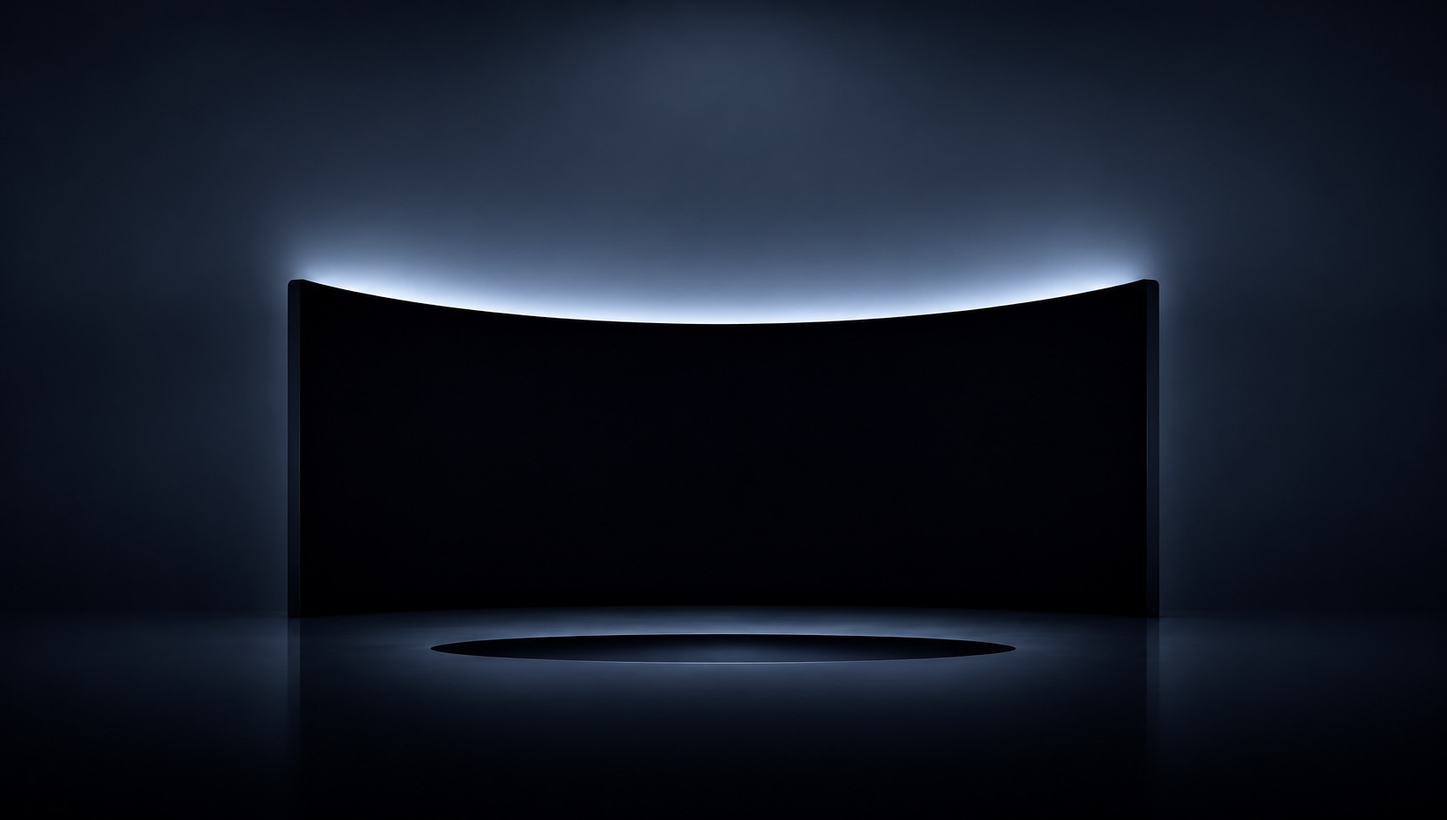
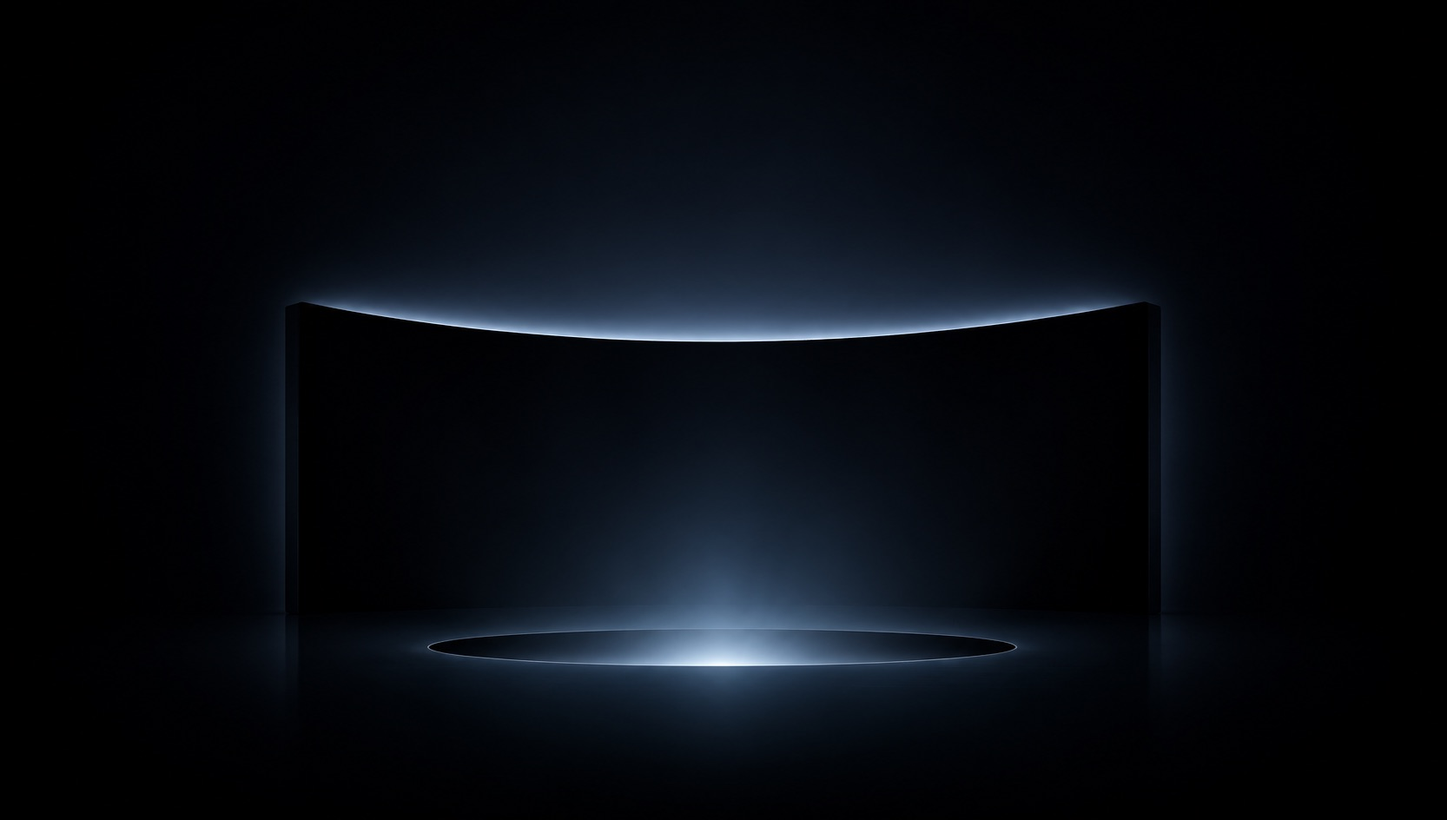
House of Jubilation: image Atelier et lumière animée du puits

diff --git a/app/site/jubilation.ts b/app/site/jubilation.ts
@@ -1,3 +1,3 @@
-export const HOJ_HTML = "<section class=\"hj\" aria-label=\"House of Jubilation\" aria-roledescription=\"carousel\">\n  <h1 class=\"hj__sr\">House of Jubilation</h1>\n  <script type=\"application/json\" class=\"hj-data\">{\"atelier-of-nights\": [{\"title\": \"Title to come\", \"text\": \"Description to come.\", \"cta\": \"Read more\", \"href\": \"\", \"img\": \"\", \"kicker\": \"The Atelier of Nights\"}, {\"title\": \"Title to come\", \"text\": \"Description to come.\", \"cta\": \"Read more\", \"href\": \"\", \"img\": \"\", \"kicker\": \"The Atelier of Nights\"}, {\"title\": \"Title to come\", \"text\": \"Description to come.\", \"cta\": \"Read more\", \"href\": \"\", \"img\": \"\", \"kicker\": \"The Atelier of Nights\"}], \"vault-of-rituals\": [{\"title\": \"Title to come\", \"text\": \"Description to come.\", \"cta\": \"Read more\", \"href\": \"\", \"img\": \"\", \"kicker\": \"The Vault of Rituals\"}, {\"title\": \"Title to come\", \"text\": \"Description to come.\", \"cta\": \"Read more\", \"href\": \"\", \"img\": \"\", \"kicker\": \"The Vault of Rituals\"}, {\"title\": \"Title to come\", \"text\": \"Description to come.\", \"cta\": \"Read more\", \"href\": \"\", \"img\": \"\", \"kicker\": \"The Vault of Rituals\"}], \"library-of-seasons\": [{\"title\": \"Title to come\", \"text\": \"Description to come.\", \"cta\": \"Read more\", \"href\": \"\", \"img\": \"\", \"kicker\": \"The Library of Seasons\"}, {\"title\": \"Title to come\", \"text\": \"Description to come.\", \"cta\": \"Read more\", \"href\": \"\", \"img\": \"\", \"kicker\": \"The Library of Seasons\"}, {\"title\": \"Title to come\", \"text\": \"Description to come.\", \"cta\": \"Read more\", \"href\": \"\", \"img\": \"\", \"kicker\": \"The Library of Seasons\"}], \"salon-of-jubilation\": [{\"title\": \"Title to come\", \"text\": \"Description to come.\", \"cta\": \"Read more\", \"href\": \"\", \"img\": \"\", \"kicker\": \"The Salon of Jubilation\"}, {\"title\": \"Title to come\", \"text\": \"Description to come.\", \"cta\": \"Read more\", \"href\": \"\", \"img\": \"\", \"kicker\": \"The Salon of Jubilation\"}, {\"title\": \"Title to come\", \"text\": \"Description to come.\", \"cta\": \"Read more\", \"href\": \"\", \"img\": \"\", \"kicker\": \"The Salon of Jubilation\"}]}</script>\n  <div class=\"hj__rooms\"><div class=\"hj-room\" id=\"atelier-of-nights\" data-a=\"The Atelier\" data-b=\"of Nights\" data-fx=\"50\" role=\"group\" aria-roledescription=\"room\" aria-label=\"1 of 4: The Atelier of Nights\" style=\"--c1:#2b1a12;--c2:#b97a4c;--ac:#f1c79c\"><div class=\"hj-room__scene\"><div class=\"hj-room__enter\"><div class=\"hj-room__zoom\"><div class=\"hj-layer\" data-depth=\"0.1\"><img src=\"/hoj/atelier.jpg\" alt=\"\" decoding=\"async\" fetchpriority=\"high\"></div><button type=\"button\" class=\"hj-dot\" data-h=\"0\" style=\"left:31%;top:46%\" aria-label=\"Title to come\"><span aria-hidden=\"true\"></span><em>Title to come</em></button><button type=\"button\" class=\"hj-dot\" data-h=\"1\" style=\"left:50%;top:28%\" aria-label=\"Title to come\"><span aria-hidden=\"true\"></span><em>Title to come</em></button><button type=\"button\" class=\"hj-dot\" data-h=\"2\" style=\"left:68%;top:60%\" aria-label=\"Title to come\"><span aria-hidden=\"true\"></span><em>Title to come</em></button></div></div></div></div><div class=\"hj-room\" id=\"vault-of-rituals\" data-a=\"The Vault\" data-b=\"of Rituals\" data-fx=\"50\" role=\"group\" aria-roledescription=\"room\" aria-label=\"2 of 4: The Vault of Rituals\" style=\"--c1:#10161e;--c2:#6f8ba3;--ac:#cfe0ee\"><div class=\"hj-room__scene\"><div class=\"hj-room__enter\"><div class=\"hj-room__zoom\"><div class=\"hj-layer\" data-depth=\"0.08\"><div class=\"hj-ph hj-ph--back\"><i class=\"hj-ph__arch\"></i><i class=\"hj-ph__col hj-ph__col--l\"></i><i class=\"hj-ph__col hj-ph__col--r\"></i><i class=\"hj-ph__floor\"></i></div></div><div class=\"hj-layer\" data-depth=\"0.22\"><div class=\"hj-ph hj-ph--front\"><i class=\"hj-ph__pil hj-ph__pil--l\"></i><i class=\"hj-ph__pil hj-ph__pil--r\"></i><i class=\"hj-ph__plinth\"></i></div></div><button type=\"button\" class=\"hj-dot\" data-h=\"0\" style=\"left:38%;top:40%\" aria-label=\"Title to come\"><span aria-hidden=\"true\"></span><em>Title to come</em></button><button type=\"button\" class=\"hj-dot\" data-h=\"1\" style=\"left:57%;top:52%\" aria-label=\"Title to come\"><span aria-hidden=\"true\"></span><em>Title to come</em></button><button type=\"button\" class=\"hj-dot\" data-h=\"2\" style=\"left:72%;top:34%\" aria-label=\"Title to come\"><span aria-hidden=\"true\"></span><em>Title to come</em></button></div></div></div></div><div class=\"hj-room\" id=\"library-of-seasons\" data-a=\"The Library\" data-b=\"of Seasons\" data-fx=\"50\" role=\"group\" aria-roledescription=\"room\" aria-label=\"3 of 4: The Library of Seasons\" style=\"--c1:#07130e;--c2:#25573f;--ac:#b9e2c8\"><div class=\"hj-room__scene\"><div class=\"hj-room__enter\"><div class=\"hj-room__zoom\"><div class=\"hj-layer\" data-depth=\"0.08\"><div class=\"hj-ph hj-ph--back\"><i class=\"hj-ph__arch\"></i><i class=\"hj-ph__col hj-ph__col--l\"></i><i class=\"hj-ph__col hj-ph__col--r\"></i><i class=\"hj-ph__floor\"></i></div></div><div class=\"hj-layer\" data-depth=\"0.22\"><div class=\"hj-ph hj-ph--front\"><i class=\"hj-ph__pil hj-ph__pil--l\"></i><i class=\"hj-ph__pil hj-ph__pil--r\"></i><i class=\"hj-ph__plinth\"></i></div></div><button type=\"button\" class=\"hj-dot\" data-h=\"0\" style=\"left:28%;top:56%\" aria-label=\"Title to come\"><span aria-hidden=\"true\"></span><em>Title to come</em></button><button type=\"button\" class=\"hj-dot\" data-h=\"1\" style=\"left:49%;top:36%\" aria-label=\"Title to come\"><span aria-hidden=\"true\"></span><em>Title to come</em></button><button type=\"button\" class=\"hj-dot\" data-h=\"2\" style=\"left:64%;top:62%\" aria-label=\"Title to come\"><span aria-hidden=\"true\"></span><em>Title to come</em></button></div></div></div></div><div class=\"hj-room\" id=\"salon-of-jubilation\" data-a=\"The Salon\" data-b=\"of Jubilation\" data-fx=\"50\" role=\"group\" aria-roledescription=\"room\" aria-label=\"4 of 4: The Salon of Jubilation\" style=\"--c1:#230b1c;--c2:#b8508f;--ac:#ffc6e6\"><div class=\"hj-room__scene\"><div class=\"hj-room__enter\"><div class=\"hj-room__zoom\"><div class=\"hj-layer\" data-depth=\"0.08\"><div class=\"hj-ph hj-ph--back\"><i class=\"hj-ph__arch\"></i><i class=\"hj-ph__col hj-ph__col--l\"></i><i class=\"hj-ph__col hj-ph__col--r\"></i><i class=\"hj-ph__floor\"></i></div></div><div class=\"hj-layer\" data-depth=\"0.22\"><div class=\"hj-ph hj-ph--front\"><i class=\"hj-ph__pil hj-ph__pil--l\"></i><i class=\"hj-ph__pil hj-ph__pil--r\"></i><i class=\"hj-ph__plinth\"></i></div></div><button type=\"button\" class=\"hj-dot\" data-h=\"0\" style=\"left:35%;top:30%\" aria-label=\"Title to come\"><span aria-hidden=\"true\"></span><em>Title to come</em></button><button type=\"button\" class=\"hj-dot\" data-h=\"1\" style=\"left:52%;top:58%\" aria-label=\"Title to come\"><span aria-hidden=\"true\"></span><em>Title to come</em></button><button type=\"button\" class=\"hj-dot\" data-h=\"2\" style=\"left:70%;top:44%\" aria-label=\"Title to come\"><span aria-hidden=\"true\"></span><em>Title to come</em></button></div></div></div></div></div>\n  <div class=\"hj__lvl\" aria-hidden=\"true\"><svg viewBox=\"0 0 40 50\" fill=\"none\" stroke=\"currentColor\" stroke-width=\"1\"><path d=\"M20 2L38 11L20 20L2 11Z\" transform=\"translate(0,0)\"/><path d=\"M20 2L38 11L20 20L2 11Z\" transform=\"translate(0,10)\"/><path d=\"M20 2L38 11L20 20L2 11Z\" transform=\"translate(0,20)\"/><path d=\"M20 2L38 11L20 20L2 11Z\" transform=\"translate(0,30)\"/></svg><span class=\"hj__lvlname\"></span></div>\n  <div class=\"hj__ui\">\n    <div class=\"hj__count\"><span class=\"hj__num\">01 / 04</span><span class=\"hj__prog\" aria-hidden=\"true\"><i></i></span></div>\n    <div class=\"hj__nav\">\n      <button type=\"button\" class=\"hj__arrow hj__prev\" aria-label=\"Previous room\"><svg viewBox=\"0 0 24 24\" fill=\"none\" stroke=\"currentColor\" stroke-width=\"1.2\" aria-hidden=\"true\"><path d=\"M6 14.5l6-6 6 6\"/></svg></button>\n      <h2 class=\"hj__title\" aria-live=\"polite\"></h2>\n      <button type=\"button\" class=\"hj__arrow hj__next\" aria-label=\"Next room\"><svg viewBox=\"0 0 24 24\" fill=\"none\" stroke=\"currentColor\" stroke-width=\"1.2\" aria-hidden=\"true\"><path d=\"M6 9.5l6 6 6-6\"/></svg></button>\n    </div>\n    <button type=\"button\" class=\"hj__surprise\"><svg viewBox=\"0 0 24 24\" fill=\"none\" stroke=\"currentColor\" stroke-width=\"1.2\" aria-hidden=\"true\"><path d=\"M3 7h3.5c2.2 0 3.6 1 4.8 2.8l2.4 4.4c1.2 1.8 2.6 2.8 4.8 2.8H21M3 17h3.5c1.6 0 2.8-.5 3.8-1.5M14 8.5c1-1 2.2-1.5 3.8-1.5H21M18.5 4.5L21 7l-2.5 2.5M18.5 14.5L21 17l-2.5 2.5\"/></svg><span>Surprise me</span></button>\n    <p class=\"hj__hint\" aria-hidden=\"true\">Drag to explore</p>\n  </div>\n  <div class=\"hj-pveil\" hidden></div>\n  <aside class=\"hj-panel\" role=\"dialog\" aria-modal=\"true\" aria-label=\"Details\" hidden>\n    <button type=\"button\" class=\"hj-panel__close\" aria-label=\"Close\"><svg viewBox=\"0 0 24 24\" fill=\"none\" stroke=\"currentColor\" stroke-width=\"1.2\" aria-hidden=\"true\"><path d=\"M5 5l14 14M19 5L5 19\"/></svg></button>\n    <div class=\"hj-panel__media\"></div>\n    <div class=\"hj-panel__body\">\n      <p class=\"hj-panel__kicker\"></p>\n      <h3 class=\"hj-panel__title\"></h3>\n      <p class=\"hj-panel__text\"></p>\n      <a class=\"hj-panel__cta\" href=\"#\" hidden><span>Read more</span><i aria-hidden=\"true\"></i></a>\n    </div>\n  </aside>\n</section>"
+export const HOJ_HTML = "<section class=\"hj\" aria-label=\"House of Jubilation\" aria-roledescription=\"carousel\">\n  <h1 class=\"hj__sr\">House of Jubilation</h1>\n  <script type=\"application/json\" class=\"hj-data\">{\"atelier-of-nights\": [{\"title\": \"Title to come\", \"text\": \"Description to come.\", \"cta\": \"Read more\", \"href\": \"\", \"img\": \"\", \"kicker\": \"The Atelier of Nights\"}, {\"title\": \"Title to come\", \"text\": \"Description to come.\", \"cta\": \"Read more\", \"href\": \"\", \"img\": \"\", \"kicker\": \"The Atelier of Nights\"}, {\"title\": \"Title to come\", \"text\": \"Description to come.\", \"cta\": \"Read more\", \"href\": \"\", \"img\": \"\", \"kicker\": \"The Atelier of Nights\"}], \"vault-of-rituals\": [{\"title\": \"Title to come\", \"text\": \"Description to come.\", \"cta\": \"Read more\", \"href\": \"\", \"img\": \"\", \"kicker\": \"The Vault of Rituals\"}, {\"title\": \"Title to come\", \"text\": \"Description to come.\", \"cta\": \"Read more\", \"href\": \"\", \"img\": \"\", \"kicker\": \"The Vault of Rituals\"}, {\"title\": \"Title to come\", \"text\": \"Description to come.\", \"cta\": \"Read more\", \"href\": \"\", \"img\": \"\", \"kicker\": \"The Vault of Rituals\"}], \"library-of-seasons\": [{\"title\": \"Title to come\", \"text\": \"Description to come.\", \"cta\": \"Read more\", \"href\": \"\", \"img\": \"\", \"kicker\": \"The Library of Seasons\"}, {\"title\": \"Title to come\", \"text\": \"Description to come.\", \"cta\": \"Read more\", \"href\": \"\", \"img\": \"\", \"kicker\": \"The Library of Seasons\"}, {\"title\": \"Title to come\", \"text\": \"Description to come.\", \"cta\": \"Read more\", \"href\": \"\", \"img\": \"\", \"kicker\": \"The Library of Seasons\"}], \"salon-of-jubilation\": [{\"title\": \"Title to come\", \"text\": \"Description to come.\", \"cta\": \"Read more\", \"href\": \"\", \"img\": \"\", \"kicker\": \"The Salon of Jubilation\"}, {\"title\": \"Title to come\", \"text\": \"Description to come.\", \"cta\": \"Read more\", \"href\": \"\", \"img\": \"\", \"kicker\": \"The Salon of Jubilation\"}, {\"title\": \"Title to come\", \"text\": \"Description to come.\", \"cta\": \"Read more\", \"href\": \"\", \"img\": \"\", \"kicker\": \"The Salon of Jubilation\"}]}</script>\n  <div class=\"hj__rooms\"><div class=\"hj-room\" id=\"atelier-of-nights\" data-a=\"The Atelier\" data-b=\"of Nights\" data-fx=\"50\" role=\"group\" aria-roledescription=\"room\" aria-label=\"1 of 4: The Atelier of Nights\" style=\"--c1:#2b1a12;--c2:#b97a4c;--ac:#f1c79c\"><div class=\"hj-room__scene\"><div class=\"hj-room__enter\"><div class=\"hj-room__zoom\"><div class=\"hj-layer\" data-depth=\"0.1\"><img src=\"/hoj/atelier.jpg\" alt=\"\" decoding=\"async\" fetchpriority=\"high\"><div class=\"hj-fx\" aria-hidden=\"true\"><i class=\"hj-glow\"></i><i class=\"hj-shaft\"></i></div></div><button type=\"button\" class=\"hj-dot\" data-h=\"0\" style=\"left:31%;top:46%\" aria-label=\"Title to come\"><span aria-hidden=\"true\"></span><em>Title to come</em></button><button type=\"button\" class=\"hj-dot\" data-h=\"1\" style=\"left:50%;top:28%\" aria-label=\"Title to come\"><span aria-hidden=\"true\"></span><em>Title to come</em></button><button type=\"button\" class=\"hj-dot\" data-h=\"2\" style=\"left:68%;top:60%\" aria-label=\"Title to come\"><span aria-hidden=\"true\"></span><em>Title to come</em></button></div></div></div></div><div class=\"hj-room\" id=\"vault-of-rituals\" data-a=\"The Vault\" data-b=\"of Rituals\" data-fx=\"50\" role=\"group\" aria-roledescription=\"room\" aria-label=\"2 of 4: The Vault of Rituals\" style=\"--c1:#10161e;--c2:#6f8ba3;--ac:#cfe0ee\"><div class=\"hj-room__scene\"><div class=\"hj-room__enter\"><div class=\"hj-room__zoom\"><div class=\"hj-layer\" data-depth=\"0.08\"><div class=\"hj-ph hj-ph--back\"><i class=\"hj-ph__arch\"></i><i class=\"hj-ph__col hj-ph__col--l\"></i><i class=\"hj-ph__col hj-ph__col--r\"></i><i class=\"hj-ph__floor\"></i></div></div><div class=\"hj-layer\" data-depth=\"0.22\"><div class=\"hj-ph hj-ph--front\"><i class=\"hj-ph__pil hj-ph__pil--l\"></i><i class=\"hj-ph__pil hj-ph__pil--r\"></i><i class=\"hj-ph__plinth\"></i></div></div><button type=\"button\" class=\"hj-dot\" data-h=\"0\" style=\"left:38%;top:40%\" aria-label=\"Title to come\"><span aria-hidden=\"true\"></span><em>Title to come</em></button><button type=\"button\" class=\"hj-dot\" data-h=\"1\" style=\"left:57%;top:52%\" aria-label=\"Title to come\"><span aria-hidden=\"true\"></span><em>Title to come</em></button><button type=\"button\" class=\"hj-dot\" data-h=\"2\" style=\"left:72%;top:34%\" aria-label=\"Title to come\"><span aria-hidden=\"true\"></span><em>Title to come</em></button></div></div></div></div><div class=\"hj-room\" id=\"library-of-seasons\" data-a=\"The Library\" data-b=\"of Seasons\" data-fx=\"50\" role=\"group\" aria-roledescription=\"room\" aria-label=\"3 of 4: The Library of Seasons\" style=\"--c1:#07130e;--c2:#25573f;--ac:#b9e2c8\"><div class=\"hj-room__scene\"><div class=\"hj-room__enter\"><div class=\"hj-room__zoom\"><div class=\"hj-layer\" data-depth=\"0.08\"><div class=\"hj-ph hj-ph--back\"><i class=\"hj-ph__arch\"></i><i class=\"hj-ph__col hj-ph__col--l\"></i><i class=\"hj-ph__col hj-ph__col--r\"></i><i class=\"hj-ph__floor\"></i></div></div><div class=\"hj-layer\" data-depth=\"0.22\"><div class=\"hj-ph hj-ph--front\"><i class=\"hj-ph__pil hj-ph__pil--l\"></i><i class=\"hj-ph__pil hj-ph__pil--r\"></i><i class=\"hj-ph__plinth\"></i></div></div><button type=\"button\" class=\"hj-dot\" data-h=\"0\" style=\"left:28%;top:56%\" aria-label=\"Title to come\"><span aria-hidden=\"true\"></span><em>Title to come</em></button><button type=\"button\" class=\"hj-dot\" data-h=\"1\" style=\"left:49%;top:36%\" aria-label=\"Title to come\"><span aria-hidden=\"true\"></span><em>Title to come</em></button><button type=\"button\" class=\"hj-dot\" data-h=\"2\" style=\"left:64%;top:62%\" aria-label=\"Title to come\"><span aria-hidden=\"true\"></span><em>Title to come</em></button></div></div></div></div><div class=\"hj-room\" id=\"salon-of-jubilation\" data-a=\"The Salon\" data-b=\"of Jubilation\" data-fx=\"50\" role=\"group\" aria-roledescription=\"room\" aria-label=\"4 of 4: The Salon of Jubilation\" style=\"--c1:#230b1c;--c2:#b8508f;--ac:#ffc6e6\"><div class=\"hj-room__scene\"><div class=\"hj-room__enter\"><div class=\"hj-room__zoom\"><div class=\"hj-layer\" data-depth=\"0.08\"><div class=\"hj-ph hj-ph--back\"><i class=\"hj-ph__arch\"></i><i class=\"hj-ph__col hj-ph__col--l\"></i><i class=\"hj-ph__col hj-ph__col--r\"></i><i class=\"hj-ph__floor\"></i></div></div><div class=\"hj-layer\" data-depth=\"0.22\"><div class=\"hj-ph hj-ph--front\"><i class=\"hj-ph__pil hj-ph__pil--l\"></i><i class=\"hj-ph__pil hj-ph__pil--r\"></i><i class=\"hj-ph__plinth\"></i></div></div><button type=\"button\" class=\"hj-dot\" data-h=\"0\" style=\"left:35%;top:30%\" aria-label=\"Title to come\"><span aria-hidden=\"true\"></span><em>Title to come</em></button><button type=\"button\" class=\"hj-dot\" data-h=\"1\" style=\"left:52%;top:58%\" aria-label=\"Title to come\"><span aria-hidden=\"true\"></span><em>Title to come</em></button><button type=\"button\" class=\"hj-dot\" data-h=\"2\" style=\"left:70%;top:44%\" aria-label=\"Title to come\"><span aria-hidden=\"true\"></span><em>Title to come</em></button></div></div></div></div></div>\n  <div class=\"hj__lvl\" aria-hidden=\"true\"><svg viewBox=\"0 0 40 50\" fill=\"none\" stroke=\"currentColor\" stroke-width=\"1\"><path d=\"M20 2L38 11L20 20L2 11Z\" transform=\"translate(0,0)\"/><path d=\"M20 2L38 11L20 20L2 11Z\" transform=\"translate(0,10)\"/><path d=\"M20 2L38 11L20 20L2 11Z\" transform=\"translate(0,20)\"/><path d=\"M20 2L38 11L20 20L2 11Z\" transform=\"translate(0,30)\"/></svg><span class=\"hj__lvlname\"></span></div>\n  <div class=\"hj__ui\">\n    <div class=\"hj__count\"><span class=\"hj__num\">01 / 04</span><span class=\"hj__prog\" aria-hidden=\"true\"><i></i></span></div>\n    <div class=\"hj__nav\">\n      <button type=\"button\" class=\"hj__arrow hj__prev\" aria-label=\"Previous room\"><svg viewBox=\"0 0 24 24\" fill=\"none\" stroke=\"currentColor\" stroke-width=\"1.2\" aria-hidden=\"true\"><path d=\"M6 14.5l6-6 6 6\"/></svg></button>\n      <h2 class=\"hj__title\" aria-live=\"polite\"></h2>\n      <button type=\"button\" class=\"hj__arrow hj__next\" aria-label=\"Next room\"><svg viewBox=\"0 0 24 24\" fill=\"none\" stroke=\"currentColor\" stroke-width=\"1.2\" aria-hidden=\"true\"><path d=\"M6 9.5l6 6 6-6\"/></svg></button>\n    </div>\n    <button type=\"button\" class=\"hj__surprise\"><svg viewBox=\"0 0 24 24\" fill=\"none\" stroke=\"currentColor\" stroke-width=\"1.2\" aria-hidden=\"true\"><path d=\"M3 7h3.5c2.2 0 3.6 1 4.8 2.8l2.4 4.4c1.2 1.8 2.6 2.8 4.8 2.8H21M3 17h3.5c1.6 0 2.8-.5 3.8-1.5M14 8.5c1-1 2.2-1.5 3.8-1.5H21M18.5 4.5L21 7l-2.5 2.5M18.5 14.5L21 17l-2.5 2.5\"/></svg><span>Surprise me</span></button>\n    <p class=\"hj__hint\" aria-hidden=\"true\">Drag to explore</p>\n  </div>\n  <div class=\"hj-pveil\" hidden></div>\n  <aside class=\"hj-panel\" role=\"dialog\" aria-modal=\"true\" aria-label=\"Details\" hidden>\n    <button type=\"button\" class=\"hj-panel__close\" aria-label=\"Close\"><svg viewBox=\"0 0 24 24\" fill=\"none\" stroke=\"currentColor\" stroke-width=\"1.2\" aria-hidden=\"true\"><path d=\"M5 5l14 14M19 5L5 19\"/></svg></button>\n    <div class=\"hj-panel__media\"></div>\n    <div class=\"hj-panel__body\">\n      <p class=\"hj-panel__kicker\"></p>\n      <h3 class=\"hj-panel__title\"></h3>\n      <p class=\"hj-panel__text\"></p>\n      <a class=\"hj-panel__cta\" href=\"#\" hidden><span>Read more</span><i aria-hidden=\"true\"></i></a>\n    </div>\n  </aside>\n</section>"
 
 export const HOJ_APP = "(function(){\n  var hj=document.querySelector('.hj');if(!hj||hj.getAttribute('data-ready'))return;hj.setAttribute('data-ready','1');\n  if(window.__hjAbort)window.__hjAbort.abort();\n  var ac=new AbortController(),sig={signal:ac.signal};window.__hjAbort=ac;\n  var root=document.documentElement;root.classList.add('ms-hoj');\n  var D=JSON.parse(hj.querySelector('.hj-data').textContent);\n  var rooms=[].slice.call(hj.querySelectorAll('.hj-room')),N=rooms.length,cur=0,busy=0;\n  var lvlName=hj.querySelector('.hj__lvlname'),lvlP=[].slice.call(hj.querySelectorAll('.hj__lvl path')),pv=hj.querySelector('.hj__prev'),nx=hj.querySelector('.hj__next'),title=hj.querySelector('.hj__title'),num=hj.querySelector('.hj__num'),bar=hj.querySelector('.hj__prog i');\n  var panel=hj.querySelector('.hj-panel'),pveil=hj.querySelector('.hj-pveil'),lastDot=null;\n  var RM=window.matchMedia('(prefers-reduced-motion: reduce)').matches;\n  var FINE=window.matchMedia('(hover: hover) and (pointer: fine)').matches;\n  function alive(){if(!hj.isConnected){ac.abort();root.classList.remove('ms-hoj','hj-panel-open');return false}return true}\n  function pad(n){return (n<10?'0':'')+n}\n  function load(r){[].forEach.call(r.querySelectorAll('[data-src]'),function(m){m.src=m.getAttribute('data-src');m.removeAttribute('data-src');if(m.tagName==='VIDEO'){m.load();}})}\n  function play(r,on){[].forEach.call(r.querySelectorAll('video'),function(v){if(on){var p=v.play();if(p&&p.catch)p.catch(function(){})}else v.pause()})}\n  function fit(){\n    var vw=hj.clientWidth,vh=hj.clientHeight,w=Math.max(vw,vh*16/9);\n    rooms.forEach(function(r){var s=r.querySelector('.hj-room__scene'),max=(w-vw)/2,fx=+(r.getAttribute('data-fx')||50);\n      var px=r.__px;if(px==null)px=(50-fx)/100*w;px=Math.max(-max,Math.min(max,px));r.__px=px;r.__max=max;s.style.setProperty('--px',px+'px')});\n  }\n  function label(){\n    var r=rooms[cur];title.innerHTML='<span>'+r.getAttribute('data-a')+'</span><span class=\"hj-it\">'+r.getAttribute('data-b')+'</span>';\n    num.textContent=pad(cur+1)+' / '+pad(N);lvlName.innerHTML=title.innerHTML;lvlP.forEach(function(q,k){q.classList.toggle('is-on',k===cur)});pv.disabled=cur<=0;nx.disabled=cur>=N-1;bar.style.transform='scaleX('+((cur+1)/N)+')';\n  }\n  function go(i,instant){\n    if(i<0||i>=N||i===cur&&!instant)return;\n    closePanel(true);\n    var prev=rooms[cur];cur=i;var r=rooms[cur];\n    load(r);if(rooms[cur+1])load(rooms[cur+1]);if(rooms[cur-1])load(rooms[cur-1]);\n    hj.classList.toggle('hj--instant',!!instant);\n    rooms.forEach(function(x,k){x.style.transform='translate3d(0,'+((k-cur)*100)+'%,0)'});\n    title.classList.add('is-out');\n    setTimeout(function(){label();title.classList.remove('is-out')},instant?0:420);\n    rooms.forEach(function(x,k){var on=k===cur;x.classList.toggle('is-on',on);x.setAttribute('aria-hidden',on?'false':'true');x.inert=!on;if(x!==prev||instant)play(x,on)});\n    if(prev&&prev!==r)setTimeout(function(){play(prev,false)},1200);\n    busy=Date.now()+(instant?0:1250);\n    try{history.replaceState(null,'','#'+r.id)}catch(e){}\n    if(instant)requestAnimationFrame(function(){hj.classList.remove('hj--instant')});\n  }\n  pv.addEventListener('click',function(){if(cur>0&&Date.now()>busy)go(cur-1)});\n  nx.addEventListener('click',function(){if(cur<N-1&&Date.now()>busy)go(cur+1)});\n  hj.querySelector('.hj__surprise').addEventListener('click',function(){if(N<2)return;var k;do{k=Math.floor(Math.random()*N)}while(k===cur);go(k)});\n  function atTop(){return hj.getBoundingClientRect().top>-4}\n  var acc=0,lastW=0,needQuiet=false;\n  window.addEventListener('wheel',function(e){\n    if(!alive()||!atTop()||root.classList.contains('hj-panel-open')||root.classList.contains('ms-menu-open'))return;\n    if(e.ctrlKey)return;\n    if(Math.abs(e.deltaX)>Math.abs(e.deltaY))return;var d=e.deltaY,dir=d>0?1:-1,now=Date.now();\n    if(dir>0&&cur===N-1&&now>busy)return;\n    if(dir<0&&cur===0&&now>busy)return;\n    e.preventDefault();\n    if(now-lastW>220)needQuiet=false;lastW=now;\n    if(now<busy){needQuiet=true;acc=0;return}\n    if(needQuiet)return;\n    acc+=d;if(Math.abs(acc)<40)return;acc=0;go(cur+dir);\n  },{passive:false,signal:ac.signal});\n  document.addEventListener('keydown',function(e){\n    if(!alive())return;\n    if(e.key==='Escape'){if(!panel.hidden)closePanel();return}\n    if(!panel.hidden||!atTop()||root.classList.contains('ms-menu-open'))return;\n    var t=e.target;if(t&&(t.tagName==='INPUT'||t.tagName==='TEXTAREA'))return;\n    if(e.key==='ArrowDown'||e.key==='PageDown'){if(cur<N-1){e.preventDefault();if(Date.now()>busy)go(cur+1)}}\n    else if(e.key==='ArrowUp'||e.key==='PageUp'){if(cur>0){e.preventDefault();if(Date.now()>busy)go(cur-1)}}\n  },sig);\n  /* touch: vertical swipe changes room, horizontal drag explores the scene */\n  var tx=0,ty=0,tmode=null,tpx=0;\n  hj.addEventListener('touchstart',function(e){if(e.touches.length!==1)return;tx=e.touches[0].clientX;ty=e.touches[0].clientY;tmode=null;tpx=rooms[cur].__px||0},{passive:true,signal:ac.signal});\n  hj.addEventListener('touchmove',function(e){\n    if(e.touches.length!==1||!panel.hidden)return;\n    var dx=e.touches[0].clientX-tx,dy=e.touches[0].clientY-ty;\n    if(!tmode&&(Math.abs(dx)>8||Math.abs(dy)>8))tmode=Math.abs(dx)>Math.abs(dy)?'x':'y';\n    if(tmode==='x'){var r=rooms[cur];if(!r.__max)return;e.preventDefault();r.__px=Math.max(-r.__max,Math.min(r.__max,tpx+dx));r.querySelector('.hj-room__scene').style.setProperty('--px',r.__px+'px');hj.classList.add('hj--dragged')}\n    else if(tmode==='y'&&atTop()){var down=dy<0;if((down&&cur<N-1)||(!down&&cur>0))e.preventDefault()}\n  },{passive:false,signal:ac.signal});\n  hj.addEventListener('touchend',function(e){\n    if(tmode!=='y'||!panel.hidden||!atTop())return;var dy=e.changedTouches[0].clientY-ty;\n    if(Math.abs(dy)<50||Date.now()<busy)return;\n    if(dy<0&&cur<N-1)go(cur+1);else if(dy>0&&cur>0)go(cur-1);\n  },{passive:true,signal:ac.signal});\n  /* parallax */\n  var mx=0,my=0,cx=0,cy=0,raf=0;\n  function tick(){cx+=(mx-cx)*.06;cy+=(my-cy)*.06;\n    [].forEach.call(rooms[cur].querySelectorAll('.hj-layer'),function(l){var d=+(l.getAttribute('data-depth')||0);l.style.transform='translate3d('+(-cx*d)+'px,'+(-cy*d)+'px,0)'});\n    if(Math.abs(mx-cx)>.1||Math.abs(my-cy)>.1)raf=requestAnimationFrame(tick);else raf=0}\n  if(FINE&&!RM)window.addEventListener('mousemove',function(e){if(!alive())return;mx=(e.clientX/window.innerWidth-.5)*100;my=(e.clientY/window.innerHeight-.5)*100;if(!raf)raf=requestAnimationFrame(tick)},sig);\n  /* hotspots */\n  var pm=panel.querySelector('.hj-panel__media'),pk=panel.querySelector('.hj-panel__kicker'),pt=panel.querySelector('.hj-panel__title'),px=panel.querySelector('.hj-panel__text'),pc=panel.querySelector('.hj-panel__cta');\n  function openPanel(dot){\n    var r=rooms[cur],h=D[r.id][+dot.getAttribute('data-h')];lastDot=dot;\n    pm.innerHTML=h.img?'<img src=\"'+h.img+'\" alt=\"\">':'<span class=\"hj-panel__ph\" aria-hidden=\"true\"></span>';\n    pk.textContent=h.kicker||'';pt.textContent=h.title||'';px.textContent=h.text||'';\n    if(h.href){pc.hidden=false;pc.href=h.href;pc.querySelector('span').textContent=h.cta||'Read more'}else pc.hidden=true;\n    var z=r.querySelector('.hj-room__zoom');z.style.transformOrigin=dot.style.left+' '+dot.style.top;r.classList.add('is-zoom');\n    [].forEach.call(r.querySelectorAll('.hj-dot'),function(d){d.classList.toggle('is-active',d===dot)});\n    panel.hidden=false;pveil.hidden=false;void panel.offsetHeight;root.classList.add('hj-panel-open');\n    var vw=hj.clientWidth,vh=hj.clientHeight,mob=vw<768,dr=dot.getBoundingClientRect(),hr=hj.getBoundingClientRect();\n    var tx=mob?vw/2:(vw-panel.offsetWidth)/2,ty=mob?(vh-panel.offsetHeight)/2+20:vh/2,ox=dr.left+dr.width/2-hr.left,oy=dr.top+dr.height/2-hr.top;\n    if(!RM)z.style.transform='translate('+Math.round(tx-ox)+'px,'+Math.round(ty-oy)+'px) scale(1.14)';\n    panel.querySelector('.hj-panel__close').focus({preventScroll:true});\n  }\n  function closePanel(silent){\n    if(panel.hidden)return;root.classList.remove('hj-panel-open');\n    rooms.forEach(function(r){r.classList.remove('is-zoom');r.querySelector('.hj-room__zoom').style.transform='';[].forEach.call(r.querySelectorAll('.hj-dot'),function(d){d.classList.remove('is-active')})});\n    setTimeout(function(){if(!root.classList.contains('hj-panel-open')){panel.hidden=true;pveil.hidden=true}},650);\n    if(!silent&&lastDot)lastDot.focus({preventScroll:true});\n  }\n  hj.addEventListener('click',function(e){var d=e.target.closest('.hj-dot');if(d){e.preventDefault();openPanel(d)}},sig);\n  panel.querySelector('.hj-panel__close').addEventListener('click',function(){closePanel()});\n  pveil.addEventListener('click',function(){closePanel()});\n  panel.addEventListener('keydown',function(e){if(e.key!=='Tab')return;var f=[].slice.call(panel.querySelectorAll('button,a:not([hidden])')),a=f[0],b=f[f.length-1];if(e.shiftKey&&document.activeElement===a){e.preventDefault();b.focus()}else if(!e.shiftKey&&document.activeElement===b){e.preventDefault();a.focus()}});\n  /* placement helper: add ?place to the URL, click the scene to read coordinates */\n  if(/[?&]place\\b/.test(location.search)){\n    var tip=document.createElement('div');tip.className='hj-place';tip.textContent='Click the scene';hj.appendChild(tip);\n    hj.addEventListener('click',function(e){if(e.target.closest('.hj-dot,.hj__ui,.hj-panel'))return;var z=rooms[cur].querySelector('.hj-room__zoom').getBoundingClientRect();\n      var x=((e.clientX-z.left)/z.width*100).toFixed(1),y=((e.clientY-z.top)/z.height*100).toFixed(1);tip.textContent=rooms[cur].id+'  x '+x+'  y '+y;try{navigator.clipboard.writeText(x+','+y)}catch(err){}},sig);\n  }\n  window.addEventListener('resize',function(){if(alive())fit()},sig);\n  fit();\n  var start=0,hs=location.hash.slice(1);rooms.forEach(function(r,k){if(r.id===hs)start=k});\n  cur=-1;go(start,true);\n  setTimeout(function(){hj.classList.add('is-ready')},60);\n})();\n"

diff --git a/app/site/jubilation.css b/app/site/jubilation.css
@@ -113,3 +113,13 @@ html body .hj-panel__text{margin:0!important;font-size:15px!important;line-heigh
 .hj-3d{position:absolute;inset:0;overflow:hidden;background:#01040a}
 .hj-3d canvas{display:block;width:100%;height:100%}
 .hj-has3d .hj-layer{display:none}
+
+.hj-fx{position:absolute;inset:3%;pointer-events:none;overflow:hidden}
+.hj-fx i{position:absolute;display:block;mix-blend-mode:screen}
+.hj-glow{left:49.8%;top:78.9%;width:34%;height:13%;transform:translate(-50%,-50%);background:radial-gradient(ellipse at 50% 50%,rgba(205,224,255,.5) 0%,rgba(120,168,236,.22) 38%,rgba(60,100,170,0) 70%);filter:blur(6px);animation:hjBreathe 6s ease-in-out infinite}
+.hj-shaft{left:49.8%;bottom:20.8%;width:15%;height:40%;transform:translateX(-50%);background:linear-gradient(0deg,rgba(175,205,255,.34) 0%,rgba(110,150,225,.14) 45%,rgba(80,120,200,0) 100%);-webkit-mask-image:radial-gradient(ellipse 50% 100% at 50% 100%,#000 25%,transparent 72%);mask-image:radial-gradient(ellipse 50% 100% at 50% 100%,#000 25%,transparent 72%);filter:blur(10px);transform-origin:50% 100%;animation:hjRise 6s ease-in-out infinite}
+.hj-shaft::after{content:"";position:absolute;inset:0;background:linear-gradient(0deg,rgba(220,235,255,.0) 0%,rgba(220,235,255,.32) 18%,rgba(220,235,255,0) 38%);background-size:100% 220%;animation:hjPulseUp 6s linear infinite}
+@keyframes hjBreathe{0%,100%{opacity:.7;transform:translate(-50%,-50%) scale(.94)}50%{opacity:1;transform:translate(-50%,-50%) scale(1.08)}}
+@keyframes hjRise{0%,100%{opacity:.65;transform:translateX(-50%) scaleY(.92)}50%{opacity:1;transform:translateX(-50%) scaleY(1.08)}}
+@keyframes hjPulseUp{0%{background-position:0 100%;opacity:0}15%{opacity:1}85%{opacity:.7}100%{background-position:0 -20%;opacity:0}}
+@media (prefers-reduced-motion:reduce){.hj-glow,.hj-shaft,.hj-shaft::after{animation:none}}
